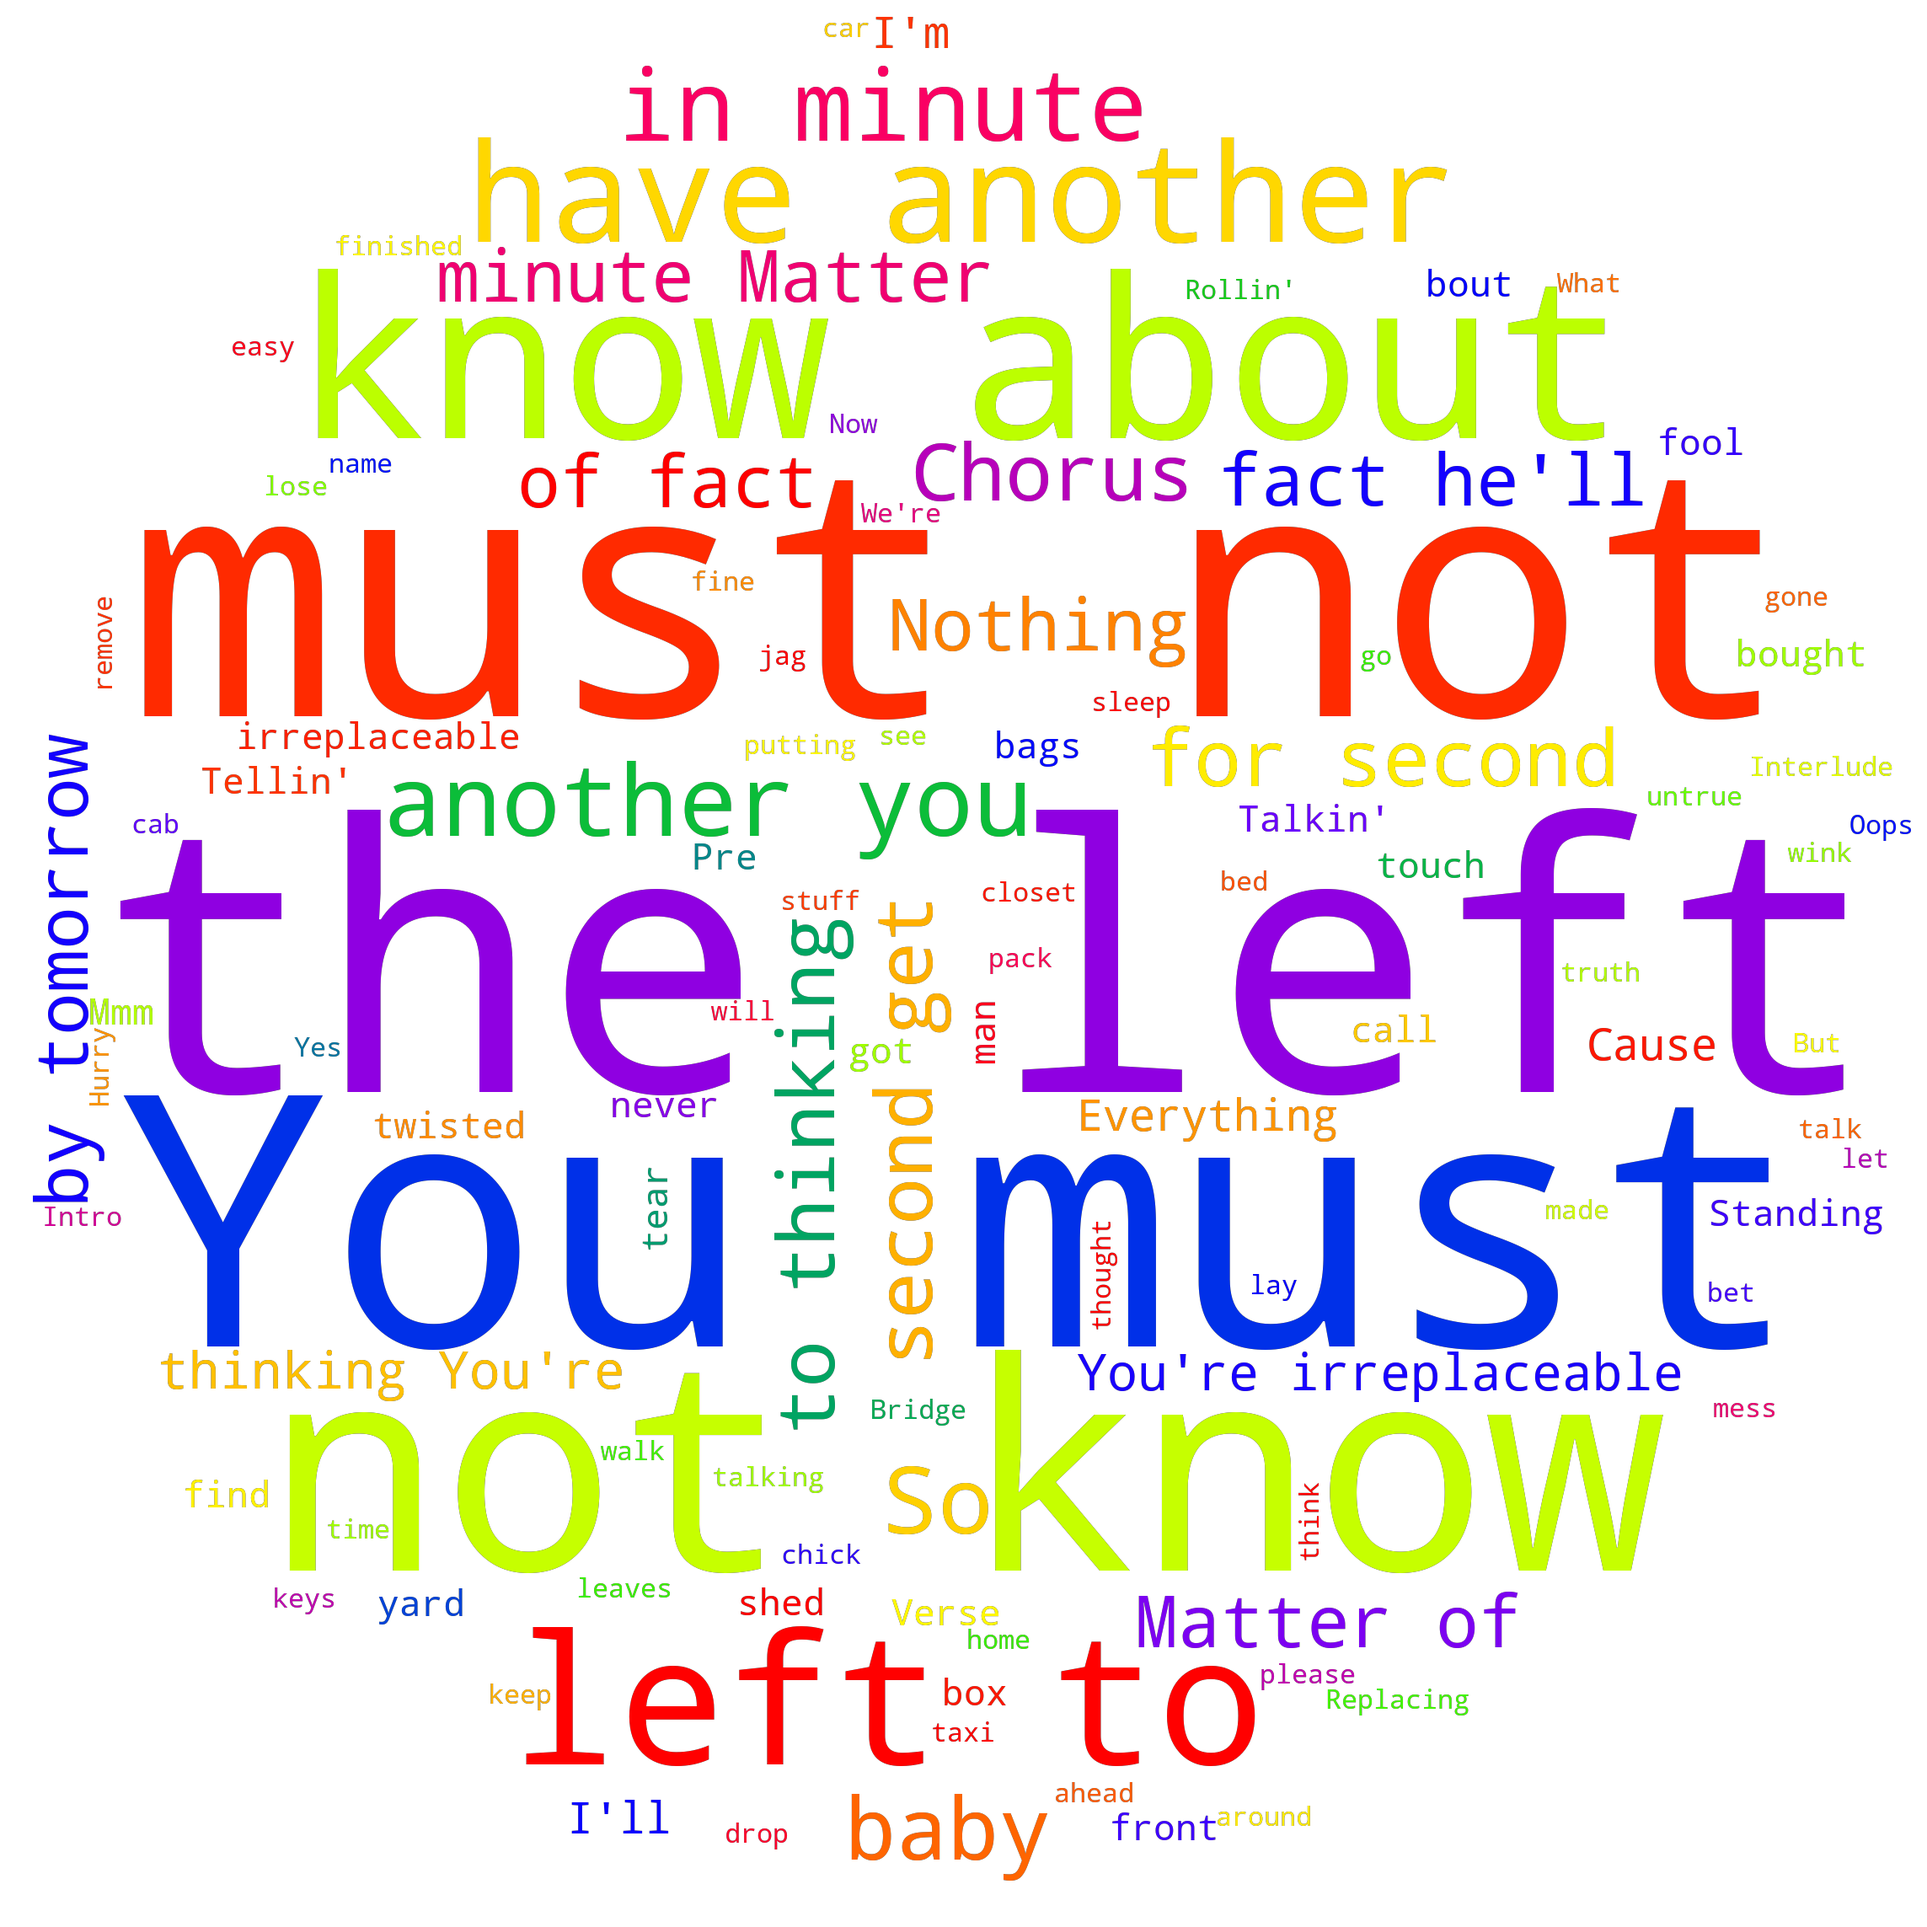
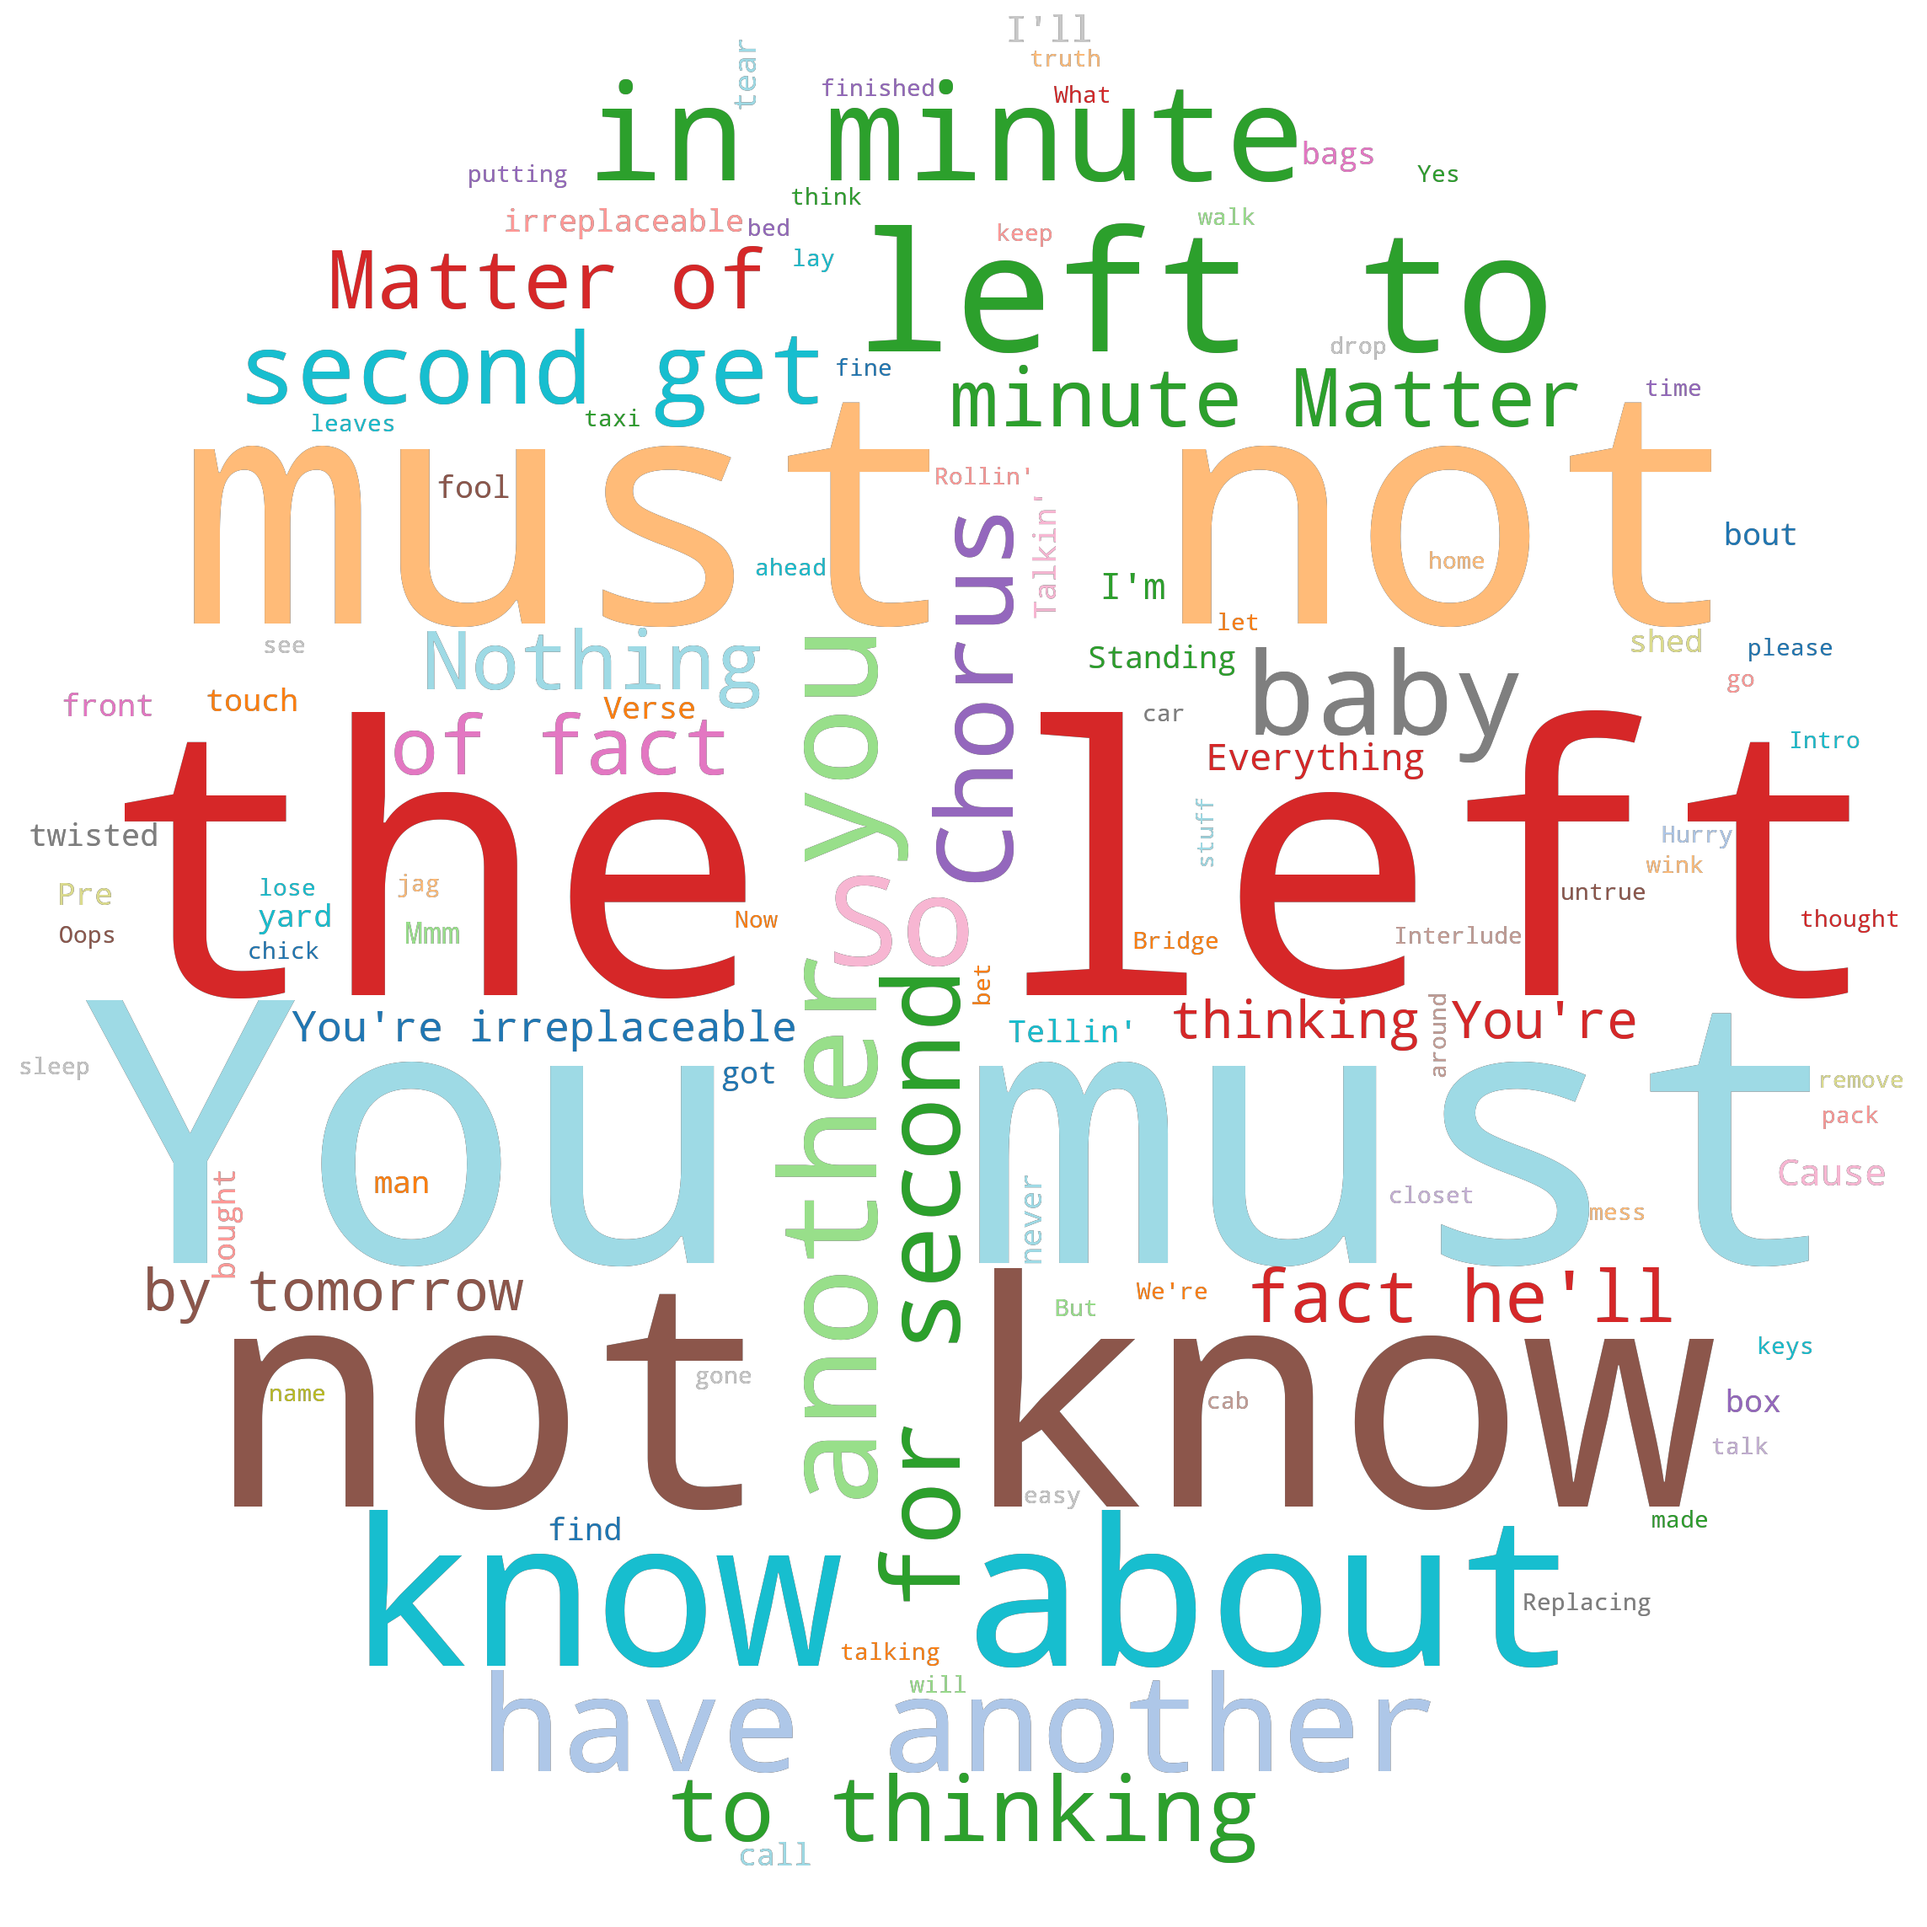
Draft ML stuff

Changed region(s): [[0.0, 0.0, 0.9934, 0.9624]]

diff --git a/music_app.py b/music_app.py
@@ -1,6 +1,6 @@
 from wordcloud import WordCloud
 import imageio
-import sys
+import sys, os
 import numpy as np
 import requests
 import json
@@ -22,7 +22,10 @@ import imageio
 from wordcloud import WordCloud
 from PIL import Image
 
+
 app = Flask(__name__)
+APP_ROOT = os.path.dirname(os.path.abspath(__file__))
+APP_STATIC_IMG = os.path.join(APP_ROOT, 'static','img')
 
 GENIUS_API_KEY = 'iPRpGvyPEPwHqexfQo75LsL0i2pPQxhkw-P5WStYbdvmUq-PQyf7ppCnT92Z-ZQc'
 genius_base_url = 'https://api.genius.com'
@@ -34,10 +37,11 @@ stops = stopwords.words('english')
 
 
 def build_cloud(lyrics_input):
-    mask_image = imageio.imread('static\img\mask_circle.png')
-    wordcloud = WordCloud(width=500, height=500, colormap='prism', mask=mask_image, background_color=None, mode="RGBA")
+    mask_image = imageio.imread(os.path.join(APP_STATIC_IMG, 'mask_circle.png'))
+    wordcloud = WordCloud(width=500, height=500, colormap='tab20', mask=mask_image, background_color=None, mode="RGBA")
     wordcloud = wordcloud.generate(lyrics_input)
-    wordcloud = wordcloud.to_file('static\img\cloud.png')
+    filepath = os.path.join(APP_STATIC_IMG, 'cloud.png')
+    wordcloud = wordcloud.to_file(filepath)
 
 def build_wordcloud(lyrics_input):
     wordcloud_dict = {}
